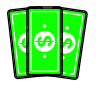
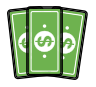
apple email-template was updated

diff --git a/emails/AppleSite/temp.html b/emails/AppleSite/temp.html
@@ -114,12 +114,12 @@
       .box {
         color: #313149;
         padding: 15px;
-        border: 2px solid #0fff00;
+        border: 2px solid #6eb24f;
         border-radius: 5px;
       }
       .liner {
         margin: 5px auto;
-        background: #0fff00;
+        background: #6eb24f;
         color: #313149;
         height: 2px;
         width: 100%;
@@ -152,7 +152,7 @@
         width: 100%;
         border: none;
         outline: none;
-        background: #0fff00;
+        background: #6eb24f;
         text-align: center;
         color: white;
         font-size: 12px;
@@ -177,11 +177,11 @@
         background: white;
         border-radius: 20px;
         text-align: center;
-        border: 2px solid #0fff00;
+        border: 2px solid #6eb24f;
         cursor: pointer;
         font-weight: bold;
         font-size: 16px;
-        color: #0fff00;
+        color: #6eb24f;
         margin-bottom: 10px;
       }
       .book-appointment p {
@@ -196,7 +196,7 @@
       }
       .card {
         background: #ffffff;
-        border: 2px solid #0fff00;
+        border: 2px solid #6eb24f;
         border-radius: 5px;
         padding: 15px;
         margin: 5px 0;
@@ -216,7 +216,7 @@
         width: 50%;
       }
       .mobile-groups {
-        background: #231f20;
+        background: #585758;
         padding: 15px;
         text-align: center;
         border-radius: 5px;
@@ -228,7 +228,7 @@
       }
       .mobile-groups button {
         font-size: 12px;
-        background: #0fff00;
+        background: #6eb24f;
         border-radius: 20px;
         height: 30px;
         width: 170px;
